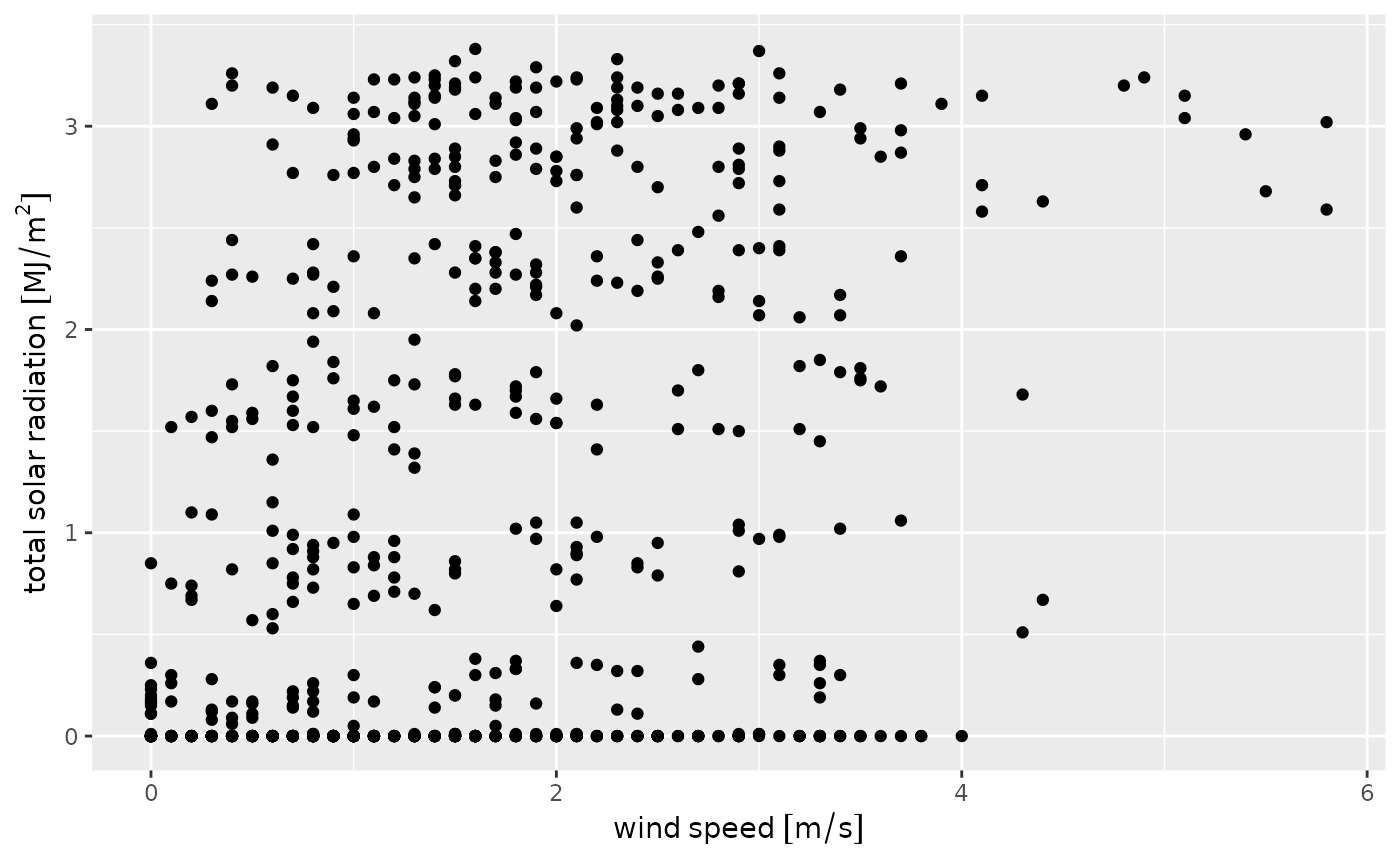
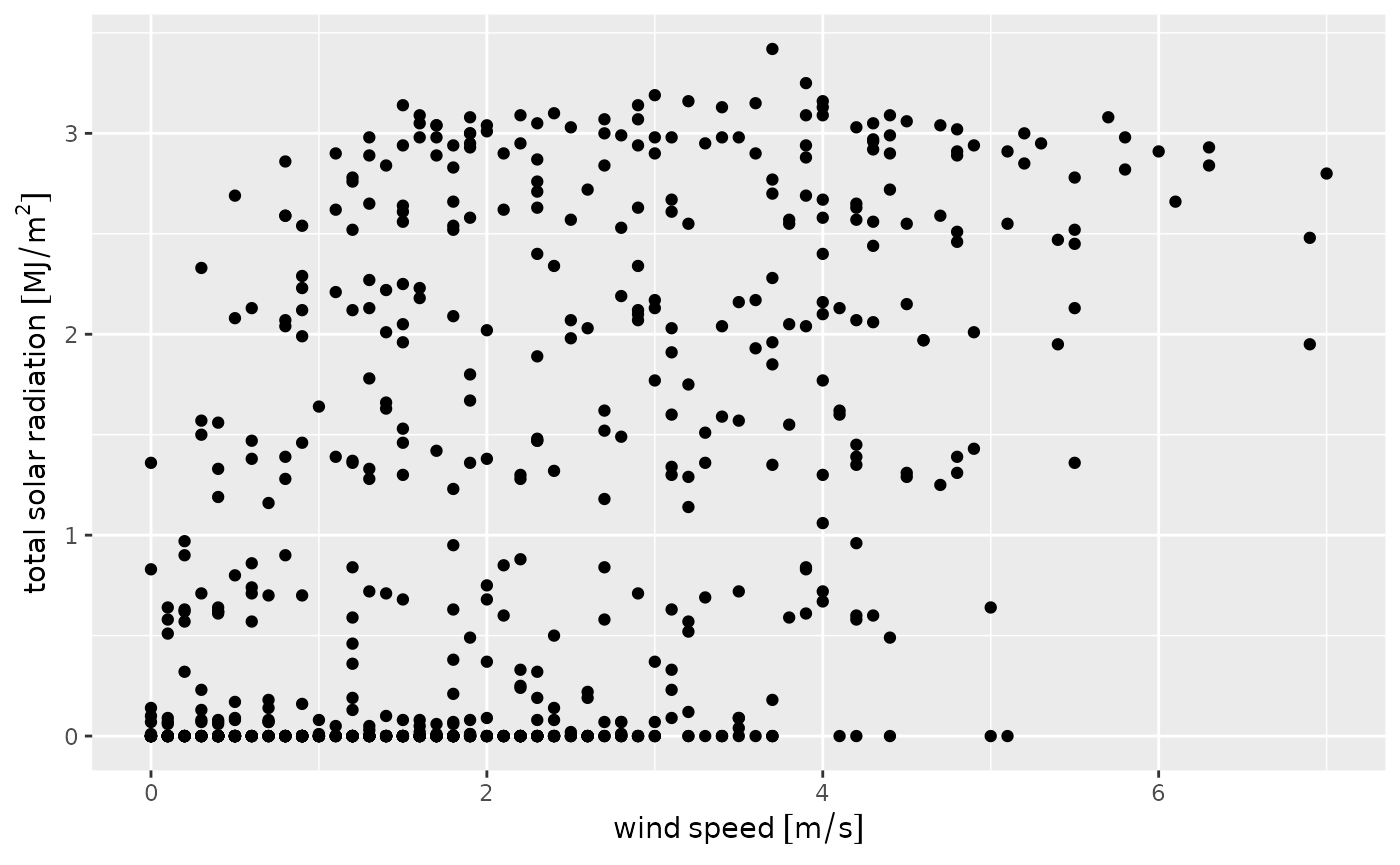
Deploying to gh-pages from @ uace-azmet/azmetr@79f807b2e87c3475a07dbf2db0864c2fc4183dfd 🚀

diff --git a/articles/basic_use.html b/articles/basic_use.html
@@ -111,12 +111,12 @@ any arguments. <code><a href="../reference/az_daily.html">az_daily()</a></code> 
 <span><span class="co">#&gt; <span style="color: #949494;"># A tibble: 6 × 75</span></span></span>
 <span><span class="co">#&gt;   meta_bat_volt_max meta_bat_volt_mean meta_bat_volt_min meta_needs_review</span></span>
 <span><span class="co">#&gt;               <span style="color: #949494; font-style: italic;">&lt;dbl&gt;</span>              <span style="color: #949494; font-style: italic;">&lt;dbl&gt;</span>             <span style="color: #949494; font-style: italic;">&lt;dbl&gt;</span>             <span style="color: #949494; font-style: italic;">&lt;dbl&gt;</span></span></span>
-<span><span class="co">#&gt; <span style="color: #BCBCBC;">1</span>              13.6               12.9              12.6                 0</span></span>
-<span><span class="co">#&gt; <span style="color: #BCBCBC;">2</span>              13.7               12.9              12.6                 0</span></span>
-<span><span class="co">#&gt; <span style="color: #BCBCBC;">3</span>              14.4               13.0              12.7                 0</span></span>
-<span><span class="co">#&gt; <span style="color: #BCBCBC;">4</span>              13.7               12.9              12.6                 0</span></span>
-<span><span class="co">#&gt; <span style="color: #BCBCBC;">5</span>              13.8               13.0              12.7                 0</span></span>
-<span><span class="co">#&gt; <span style="color: #BCBCBC;">6</span>              13.6               13.0              12.7                 0</span></span>
+<span><span class="co">#&gt; <span style="color: #BCBCBC;">1</span>              13.9               13                12.5                 0</span></span>
+<span><span class="co">#&gt; <span style="color: #BCBCBC;">2</span>              14.2               13.0              12.5                 0</span></span>
+<span><span class="co">#&gt; <span style="color: #BCBCBC;">3</span>              14.5               13.0              12.6                 0</span></span>
+<span><span class="co">#&gt; <span style="color: #BCBCBC;">4</span>              14.2               13.0              12.5                 0</span></span>
+<span><span class="co">#&gt; <span style="color: #BCBCBC;">5</span>              14.2               13.1              12.6                 0</span></span>
+<span><span class="co">#&gt; <span style="color: #BCBCBC;">6</span>              14.0               13.1              12.6                 0</span></span>
 <span><span class="co">#&gt; <span style="color: #949494;"># ℹ 71 more variables: meta_station_id &lt;chr&gt;, meta_station_name &lt;chr&gt;,</span></span></span>
 <span><span class="co">#&gt; <span style="color: #949494;">#   meta_version &lt;dbl&gt;, chill_hours_0C &lt;dbl&gt;, chill_hours_20C &lt;dbl&gt;,</span></span></span>
 <span><span class="co">#&gt; <span style="color: #949494;">#   chill_hours_32F &lt;dbl&gt;, chill_hours_45F &lt;dbl&gt;, chill_hours_68F &lt;dbl&gt;,</span></span></span>
@@ -130,9 +130,9 @@ any arguments. <code><a href="../reference/az_daily.html">az_daily()</a></code> 
 <span><span class="co">#&gt;           <span style="color: #949494; font-style: italic;">&lt;dbl&gt;</span>             <span style="color: #949494; font-style: italic;">&lt;dbl&gt;</span> <span style="color: #949494; font-style: italic;">&lt;chr&gt;</span>           <span style="color: #949494; font-style: italic;">&lt;chr&gt;</span>                    <span style="color: #949494; font-style: italic;">&lt;dbl&gt;</span></span></span>
 <span><span class="co">#&gt; <span style="color: #BCBCBC;">1</span>          12.7                 0 az01            Tucson                       1</span></span>
 <span><span class="co">#&gt; <span style="color: #BCBCBC;">2</span>          12.7                 0 az01            Tucson                       1</span></span>
-<span><span class="co">#&gt; <span style="color: #BCBCBC;">3</span>          12.7                 0 az01            Tucson                       1</span></span>
-<span><span class="co">#&gt; <span style="color: #BCBCBC;">4</span>          12.7                 0 az01            Tucson                       1</span></span>
-<span><span class="co">#&gt; <span style="color: #BCBCBC;">5</span>          12.7                 0 az01            Tucson                       1</span></span>
+<span><span class="co">#&gt; <span style="color: #BCBCBC;">3</span>          12.6                 0 az01            Tucson                       1</span></span>
+<span><span class="co">#&gt; <span style="color: #BCBCBC;">4</span>          12.6                 0 az01            Tucson                       1</span></span>
+<span><span class="co">#&gt; <span style="color: #BCBCBC;">5</span>          12.6                 0 az01            Tucson                       1</span></span>
 <span><span class="co">#&gt; <span style="color: #BCBCBC;">6</span>          12.6                 0 az01            Tucson                       1</span></span>
 <span><span class="co">#&gt; <span style="color: #949494;"># ℹ 37 more variables: date_datetime &lt;dttm&gt;, date_doy &lt;dbl&gt;, date_hour &lt;chr&gt;,</span></span></span>
 <span><span class="co">#&gt; <span style="color: #949494;">#   date_year &lt;dbl&gt;, dwpt &lt;dbl&gt;, dwptF &lt;dbl&gt;, eto_azmet &lt;dbl&gt;,</span></span></span>
@@ -151,25 +151,23 @@ retrieve data going back further in time.</p>
 <div class="sourceCode" id="cb3"><pre class="downlit sourceCode r">
 <code class="sourceCode R"><span><span class="va">last_date</span> <span class="op">&lt;-</span> <span class="fu"><a href="https://rdrr.io/r/base/Extremes.html" class="external-link">max</a></span><span class="op">(</span><span class="va">daily</span><span class="op">$</span><span class="va">datetime</span><span class="op">)</span></span>
 <span><span class="va">last_date</span></span>
-<span><span class="co">#&gt; [1] "2023-08-27"</span></span>
+<span><span class="co">#&gt; [1] "2023-09-21"</span></span>
 <span><span class="va">last_week</span> <span class="op">&lt;-</span> <span class="va">last_date</span> <span class="op">-</span> <span class="fu">lubridate</span><span class="fu">::</span><span class="fu"><a href="https://lubridate.tidyverse.org/reference/period.html" class="external-link">weeks</a></span><span class="op">(</span><span class="fl">1</span><span class="op">)</span></span>
 <span><span class="va">wk</span> <span class="op">&lt;-</span> <span class="fu"><a href="../reference/az_daily.html">az_daily</a></span><span class="op">(</span>start_date <span class="op">=</span> <span class="va">last_week</span><span class="op">)</span></span>
-<span><span class="co">#&gt; Warning in az_daily(start_date = last_week): Some requested data were</span></span>
-<span><span class="co">#&gt; unavailable</span></span>
 <span></span>
 <span><span class="fu"><a href="https://rdrr.io/r/base/range.html" class="external-link">range</a></span><span class="op">(</span><span class="va">wk</span><span class="op">$</span><span class="va">datetime</span><span class="op">)</span></span>
-<span><span class="co">#&gt; [1] "2023-08-20" "2023-08-27"</span></span></code></pre></div>
+<span><span class="co">#&gt; [1] "2023-09-14" "2023-09-21"</span></span></code></pre></div>
 <div class="sourceCode" id="cb4"><pre class="downlit sourceCode r">
 <code class="sourceCode R"><span><span class="va">last_datetime</span> <span class="op">&lt;-</span> <span class="fu"><a href="https://rdrr.io/r/base/Extremes.html" class="external-link">max</a></span><span class="op">(</span><span class="va">hourly</span><span class="op">$</span><span class="va">date_datetime</span><span class="op">)</span></span>
 <span><span class="va">last_datetime</span></span>
-<span><span class="co">#&gt; [1] "2023-08-27 23:59:59 MST"</span></span>
+<span><span class="co">#&gt; [1] "2023-09-21 23:59:59 MST"</span></span>
 <span><span class="va">last_48h</span> <span class="op">&lt;-</span> <span class="va">last_datetime</span> <span class="op">-</span> <span class="fu"><a href="https://lubridate.tidyverse.org/reference/period.html" class="external-link">hours</a></span><span class="op">(</span><span class="fl">48</span><span class="op">)</span></span>
 <span><span class="va">hr</span> <span class="op">&lt;-</span> <span class="fu"><a href="../reference/az_hourly.html">az_hourly</a></span><span class="op">(</span>start_date_time <span class="op">=</span> <span class="va">last_48h</span><span class="op">)</span></span>
 <span><span class="co">#&gt; Warning in az_hourly(start_date_time = last_48h): Some requested data were</span></span>
 <span><span class="co">#&gt; unavailable</span></span>
 <span></span>
 <span><span class="fu"><a href="https://rdrr.io/r/base/range.html" class="external-link">range</a></span><span class="op">(</span><span class="va">hr</span><span class="op">$</span><span class="va">date_datetime</span><span class="op">)</span></span>
-<span><span class="co">#&gt; [1] "2023-08-25 23:00:00 MST" "2023-08-28 17:00:00 MST"</span></span></code></pre></div>
+<span><span class="co">#&gt; [1] "2023-09-19 23:00:00 MST" "2023-09-22 12:00:00 MST"</span></span></code></pre></div>
 <p>To specify an end date, use <code>end_date</code> or
 <code>end_date_time</code>. You must also supply a start date if you
 supply an end date.</p>
@@ -200,19 +198,19 @@ rounded down to the nearest hour.</p>
 and location.</p>
 <div class="sourceCode" id="cb7"><pre class="downlit sourceCode r">
 <code class="sourceCode R"><span><span class="va">station_info</span></span>
-<span><span class="co">#&gt; <span style="color: #949494;"># A tibble: 30 × 4</span></span></span>
-<span><span class="co">#&gt;    meta_station_name meta_station_id latitude longitude</span></span>
-<span><span class="co">#&gt;    <span style="color: #949494; font-style: italic;">&lt;chr&gt;</span>             <span style="color: #949494; font-style: italic;">&lt;chr&gt;</span>              <span style="color: #949494; font-style: italic;">&lt;dbl&gt;</span>     <span style="color: #949494; font-style: italic;">&lt;dbl&gt;</span></span></span>
-<span><span class="co">#&gt; <span style="color: #BCBCBC;"> 1</span> Tucson            az01                32.3     -<span style="color: #BB0000;">111.</span></span></span>
-<span><span class="co">#&gt; <span style="color: #BCBCBC;"> 2</span> Yuma Valley       az02                32.7     -<span style="color: #BB0000;">115.</span></span></span>
-<span><span class="co">#&gt; <span style="color: #BCBCBC;"> 3</span> Safford           az04                32.8     -<span style="color: #BB0000;">110.</span></span></span>
-<span><span class="co">#&gt; <span style="color: #BCBCBC;"> 4</span> Coolidge          az05                33.0     -<span style="color: #BB0000;">112.</span></span></span>
-<span><span class="co">#&gt; <span style="color: #BCBCBC;"> 5</span> Maricopa          az06                33.1     -<span style="color: #BB0000;">112.</span></span></span>
-<span><span class="co">#&gt; <span style="color: #BCBCBC;"> 6</span> Aguila            az07                34.0     -<span style="color: #BB0000;">113.</span></span></span>
-<span><span class="co">#&gt; <span style="color: #BCBCBC;"> 7</span> Parker            az08                34.0     -<span style="color: #BB0000;">114.</span></span></span>
-<span><span class="co">#&gt; <span style="color: #BCBCBC;"> 8</span> Bonita            az09                32.5     -<span style="color: #BB0000;">110.</span></span></span>
-<span><span class="co">#&gt; <span style="color: #BCBCBC;"> 9</span> Phoenix Greenway  az12                33.6     -<span style="color: #BB0000;">112.</span></span></span>
-<span><span class="co">#&gt; <span style="color: #BCBCBC;">10</span> Yuma N.Gila       az14                32.8     -<span style="color: #BB0000;">115.</span></span></span>
+<span><span class="co">#&gt; <span style="color: #949494;"># A tibble: 30 × 5</span></span></span>
+<span><span class="co">#&gt;    meta_station_name meta_station_id latitude longitude elev_m</span></span>
+<span><span class="co">#&gt;    <span style="color: #949494; font-style: italic;">&lt;chr&gt;</span>             <span style="color: #949494; font-style: italic;">&lt;chr&gt;</span>              <span style="color: #949494; font-style: italic;">&lt;dbl&gt;</span>     <span style="color: #949494; font-style: italic;">&lt;dbl&gt;</span>  <span style="color: #949494; font-style: italic;">&lt;dbl&gt;</span></span></span>
+<span><span class="co">#&gt; <span style="color: #BCBCBC;"> 1</span> Tucson            az01                32.3     -<span style="color: #BB0000;">111.</span>    717</span></span>
+<span><span class="co">#&gt; <span style="color: #BCBCBC;"> 2</span> Yuma Valley       az02                32.7     -<span style="color: #BB0000;">115.</span>     36</span></span>
+<span><span class="co">#&gt; <span style="color: #BCBCBC;"> 3</span> Safford           az04                32.8     -<span style="color: #BB0000;">110.</span>    903</span></span>
+<span><span class="co">#&gt; <span style="color: #BCBCBC;"> 4</span> Coolidge          az05                33.0     -<span style="color: #BB0000;">112.</span>    423</span></span>
+<span><span class="co">#&gt; <span style="color: #BCBCBC;"> 5</span> Maricopa          az06                33.1     -<span style="color: #BB0000;">112.</span>    362</span></span>
+<span><span class="co">#&gt; <span style="color: #BCBCBC;"> 6</span> Aguila            az07                33.9     -<span style="color: #BB0000;">113.</span>    657</span></span>
+<span><span class="co">#&gt; <span style="color: #BCBCBC;"> 7</span> Parker            az08                34.0     -<span style="color: #BB0000;">114.</span>     98</span></span>
+<span><span class="co">#&gt; <span style="color: #BCBCBC;"> 8</span> Bonita            az09                32.5     -<span style="color: #BB0000;">110.</span>   <span style="text-decoration: underline;">1</span>349</span></span>
+<span><span class="co">#&gt; <span style="color: #BCBCBC;"> 9</span> Phoenix Greenway  az12                33.6     -<span style="color: #BB0000;">112.</span>    403</span></span>
+<span><span class="co">#&gt; <span style="color: #BCBCBC;">10</span> Yuma N.Gila       az14                32.8     -<span style="color: #BB0000;">115.</span>     43</span></span>
 <span><span class="co">#&gt; <span style="color: #949494;"># ℹ 20 more rows</span></span></span></code></pre></div>
 <p>If you only need data for a subset of stations, you can supply
 <code>station_id</code>. However, note that this will query the API once
@@ -224,7 +222,7 @@ queries the web API once and results in an identical dataset.</p>
 <span>  <span class="va">sub_wk</span> <span class="op">&lt;-</span> <span class="fu"><a href="../reference/az_daily.html">az_daily</a></span><span class="op">(</span>station_id <span class="op">=</span> <span class="fu"><a href="https://rdrr.io/r/base/c.html" class="external-link">c</a></span><span class="op">(</span><span class="fl">1</span>, <span class="fl">2</span>, <span class="fl">8</span><span class="op">)</span>, start_date <span class="op">=</span> <span class="st">"2022-01-01"</span>, end_date <span class="op">=</span> <span class="st">"2022-01-15"</span><span class="op">)</span></span>
 <span><span class="op">)</span></span>
 <span><span class="co">#&gt;    user  system elapsed </span></span>
-<span><span class="co">#&gt;   0.148   0.000   0.867</span></span>
+<span><span class="co">#&gt;   0.128   0.000   0.947</span></span>
 <span><span class="fu"><a href="https://rdrr.io/r/base/system.time.html" class="external-link">system.time</a></span><span class="op">(</span></span>
 <span>  <span class="va">sub_wk2</span> <span class="op">&lt;-</span> <span class="fu"><a href="https://rdrr.io/r/base/subset.html" class="external-link">subset</a></span><span class="op">(</span></span>
 <span>    <span class="fu"><a href="../reference/az_daily.html">az_daily</a></span><span class="op">(</span>start_date <span class="op">=</span> <span class="st">"2022-01-01"</span>, end_date <span class="op">=</span> <span class="st">"2022-01-15"</span><span class="op">)</span>,</span>
@@ -232,7 +230,7 @@ queries the web API once and results in an identical dataset.</p>
 <span>  <span class="op">)</span></span>
 <span><span class="op">)</span></span>
 <span><span class="co">#&gt;    user  system elapsed </span></span>
-<span><span class="co">#&gt;   0.396   0.000   0.665</span></span>
+<span><span class="co">#&gt;   0.345   0.000   0.823</span></span>
 <span><span class="fu"><a href="https://rdrr.io/r/base/all.html" class="external-link">all</a></span><span class="op">(</span><span class="va">sub_wk2</span> <span class="op">==</span> <span class="va">sub_wk</span><span class="op">)</span></span>
 <span><span class="co">#&gt; [1] NA</span></span></code></pre></div>
 </div>

diff --git a/reference/station_info.html b/reference/station_info.html
@@ -1,7 +1,7 @@
 <!DOCTYPE html>
-<!-- Generated by pkgdown: do not edit by hand --><html lang="en"><head><meta http-equiv="Content-Type" content="text/html; charset=UTF-8"><meta charset="utf-8"><meta http-equiv="X-UA-Compatible" content="IE=edge"><meta name="viewport" content="width=device-width, initial-scale=1, shrink-to-fit=no"><meta name="description" content="Station names, station IDs, and location (lat, lon) of active AZMet weather
-stations"><title>AZMet station names and locations — station_info • azmetr</title><!-- favicons --><link rel="icon" type="image/png" sizes="16x16" href="../favicon-16x16.png"><link rel="icon" type="image/png" sizes="32x32" href="../favicon-32x32.png"><link rel="apple-touch-icon" type="image/png" sizes="180x180" href="../apple-touch-icon.png"><link rel="apple-touch-icon" type="image/png" sizes="120x120" href="../apple-touch-icon-120x120.png"><link rel="apple-touch-icon" type="image/png" sizes="76x76" href="../apple-touch-icon-76x76.png"><link rel="apple-touch-icon" type="image/png" sizes="60x60" href="../apple-touch-icon-60x60.png"><script src="../deps/jquery-3.6.0/jquery-3.6.0.min.js"></script><meta name="viewport" content="width=device-width, initial-scale=1, shrink-to-fit=no"><link href="../deps/bootstrap-5.2.2/bootstrap.min.css" rel="stylesheet"><script src="../deps/bootstrap-5.2.2/bootstrap.bundle.min.js"></script><!-- Font Awesome icons --><link rel="stylesheet" href="https://cdnjs.cloudflare.com/ajax/libs/font-awesome/5.12.1/css/all.min.css" integrity="sha256-mmgLkCYLUQbXn0B1SRqzHar6dCnv9oZFPEC1g1cwlkk=" crossorigin="anonymous"><link rel="stylesheet" href="https://cdnjs.cloudflare.com/ajax/libs/font-awesome/5.12.1/css/v4-shims.min.css" integrity="sha256-wZjR52fzng1pJHwx4aV2AO3yyTOXrcDW7jBpJtTwVxw=" crossorigin="anonymous"><!-- bootstrap-toc --><script src="https://cdn.jsdelivr.net/gh/afeld/bootstrap-toc@v1.0.1/dist/bootstrap-toc.min.js" integrity="sha256-4veVQbu7//Lk5TSmc7YV48MxtMy98e26cf5MrgZYnwo=" crossorigin="anonymous"></script><!-- headroom.js --><script src="https://cdnjs.cloudflare.com/ajax/libs/headroom/0.11.0/headroom.min.js" integrity="sha256-AsUX4SJE1+yuDu5+mAVzJbuYNPHj/WroHuZ8Ir/CkE0=" crossorigin="anonymous"></script><script src="https://cdnjs.cloudflare.com/ajax/libs/headroom/0.11.0/jQuery.headroom.min.js" integrity="sha256-ZX/yNShbjqsohH1k95liqY9Gd8uOiE1S4vZc+9KQ1K4=" crossorigin="anonymous"></script><!-- clipboard.js --><script src="https://cdnjs.cloudflare.com/ajax/libs/clipboard.js/2.0.6/clipboard.min.js" integrity="sha256-inc5kl9MA1hkeYUt+EC3BhlIgyp/2jDIyBLS6k3UxPI=" crossorigin="anonymous"></script><!-- search --><script src="https://cdnjs.cloudflare.com/ajax/libs/fuse.js/6.4.6/fuse.js" integrity="sha512-zv6Ywkjyktsohkbp9bb45V6tEMoWhzFzXis+LrMehmJZZSys19Yxf1dopHx7WzIKxr5tK2dVcYmaCk2uqdjF4A==" crossorigin="anonymous"></script><script src="https://cdnjs.cloudflare.com/ajax/libs/autocomplete.js/0.38.0/autocomplete.jquery.min.js" integrity="sha512-GU9ayf+66Xx2TmpxqJpliWbT5PiGYxpaG8rfnBEk1LL8l1KGkRShhngwdXK1UgqhAzWpZHSiYPc09/NwDQIGyg==" crossorigin="anonymous"></script><script src="https://cdnjs.cloudflare.com/ajax/libs/mark.js/8.11.1/mark.min.js" integrity="sha512-5CYOlHXGh6QpOFA/TeTylKLWfB3ftPsde7AnmhuitiTX4K5SqCLBeKro6sPS8ilsz1Q4NRx3v8Ko2IBiszzdww==" crossorigin="anonymous"></script><!-- pkgdown --><script src="../pkgdown.js"></script><meta property="og:title" content="AZMet station names and locations — station_info"><meta property="og:description" content="Station names, station IDs, and location (lat, lon) of active AZMet weather
-stations"><meta property="og:image" content="https://uace-azmet.github.io/azmetr/logo.png"><!-- mathjax --><script src="https://cdnjs.cloudflare.com/ajax/libs/mathjax/2.7.5/MathJax.js" integrity="sha256-nvJJv9wWKEm88qvoQl9ekL2J+k/RWIsaSScxxlsrv8k=" crossorigin="anonymous"></script><script src="https://cdnjs.cloudflare.com/ajax/libs/mathjax/2.7.5/config/TeX-AMS-MML_HTMLorMML.js" integrity="sha256-84DKXVJXs0/F8OTMzX4UR909+jtl4G7SPypPavF+GfA=" crossorigin="anonymous"></script><!--[if lt IE 9]>
+<!-- Generated by pkgdown: do not edit by hand --><html lang="en"><head><meta http-equiv="Content-Type" content="text/html; charset=UTF-8"><meta charset="utf-8"><meta http-equiv="X-UA-Compatible" content="IE=edge"><meta name="viewport" content="width=device-width, initial-scale=1, shrink-to-fit=no"><meta name="description" content="Station names, station IDs, and location (lat, lon, elevation) of active
+AZMet weather stations"><title>AZMet station names and locations — station_info • azmetr</title><!-- favicons --><link rel="icon" type="image/png" sizes="16x16" href="../favicon-16x16.png"><link rel="icon" type="image/png" sizes="32x32" href="../favicon-32x32.png"><link rel="apple-touch-icon" type="image/png" sizes="180x180" href="../apple-touch-icon.png"><link rel="apple-touch-icon" type="image/png" sizes="120x120" href="../apple-touch-icon-120x120.png"><link rel="apple-touch-icon" type="image/png" sizes="76x76" href="../apple-touch-icon-76x76.png"><link rel="apple-touch-icon" type="image/png" sizes="60x60" href="../apple-touch-icon-60x60.png"><script src="../deps/jquery-3.6.0/jquery-3.6.0.min.js"></script><meta name="viewport" content="width=device-width, initial-scale=1, shrink-to-fit=no"><link href="../deps/bootstrap-5.2.2/bootstrap.min.css" rel="stylesheet"><script src="../deps/bootstrap-5.2.2/bootstrap.bundle.min.js"></script><!-- Font Awesome icons --><link rel="stylesheet" href="https://cdnjs.cloudflare.com/ajax/libs/font-awesome/5.12.1/css/all.min.css" integrity="sha256-mmgLkCYLUQbXn0B1SRqzHar6dCnv9oZFPEC1g1cwlkk=" crossorigin="anonymous"><link rel="stylesheet" href="https://cdnjs.cloudflare.com/ajax/libs/font-awesome/5.12.1/css/v4-shims.min.css" integrity="sha256-wZjR52fzng1pJHwx4aV2AO3yyTOXrcDW7jBpJtTwVxw=" crossorigin="anonymous"><!-- bootstrap-toc --><script src="https://cdn.jsdelivr.net/gh/afeld/bootstrap-toc@v1.0.1/dist/bootstrap-toc.min.js" integrity="sha256-4veVQbu7//Lk5TSmc7YV48MxtMy98e26cf5MrgZYnwo=" crossorigin="anonymous"></script><!-- headroom.js --><script src="https://cdnjs.cloudflare.com/ajax/libs/headroom/0.11.0/headroom.min.js" integrity="sha256-AsUX4SJE1+yuDu5+mAVzJbuYNPHj/WroHuZ8Ir/CkE0=" crossorigin="anonymous"></script><script src="https://cdnjs.cloudflare.com/ajax/libs/headroom/0.11.0/jQuery.headroom.min.js" integrity="sha256-ZX/yNShbjqsohH1k95liqY9Gd8uOiE1S4vZc+9KQ1K4=" crossorigin="anonymous"></script><!-- clipboard.js --><script src="https://cdnjs.cloudflare.com/ajax/libs/clipboard.js/2.0.6/clipboard.min.js" integrity="sha256-inc5kl9MA1hkeYUt+EC3BhlIgyp/2jDIyBLS6k3UxPI=" crossorigin="anonymous"></script><!-- search --><script src="https://cdnjs.cloudflare.com/ajax/libs/fuse.js/6.4.6/fuse.js" integrity="sha512-zv6Ywkjyktsohkbp9bb45V6tEMoWhzFzXis+LrMehmJZZSys19Yxf1dopHx7WzIKxr5tK2dVcYmaCk2uqdjF4A==" crossorigin="anonymous"></script><script src="https://cdnjs.cloudflare.com/ajax/libs/autocomplete.js/0.38.0/autocomplete.jquery.min.js" integrity="sha512-GU9ayf+66Xx2TmpxqJpliWbT5PiGYxpaG8rfnBEk1LL8l1KGkRShhngwdXK1UgqhAzWpZHSiYPc09/NwDQIGyg==" crossorigin="anonymous"></script><script src="https://cdnjs.cloudflare.com/ajax/libs/mark.js/8.11.1/mark.min.js" integrity="sha512-5CYOlHXGh6QpOFA/TeTylKLWfB3ftPsde7AnmhuitiTX4K5SqCLBeKro6sPS8ilsz1Q4NRx3v8Ko2IBiszzdww==" crossorigin="anonymous"></script><!-- pkgdown --><script src="../pkgdown.js"></script><meta property="og:title" content="AZMet station names and locations — station_info"><meta property="og:description" content="Station names, station IDs, and location (lat, lon, elevation) of active
+AZMet weather stations"><meta property="og:image" content="https://uace-azmet.github.io/azmetr/logo.png"><!-- mathjax --><script src="https://cdnjs.cloudflare.com/ajax/libs/mathjax/2.7.5/MathJax.js" integrity="sha256-nvJJv9wWKEm88qvoQl9ekL2J+k/RWIsaSScxxlsrv8k=" crossorigin="anonymous"></script><script src="https://cdnjs.cloudflare.com/ajax/libs/mathjax/2.7.5/config/TeX-AMS-MML_HTMLorMML.js" integrity="sha256-84DKXVJXs0/F8OTMzX4UR909+jtl4G7SPypPavF+GfA=" crossorigin="anonymous"></script><!--[if lt IE 9]>
 <script src="https://oss.maxcdn.com/html5shiv/3.7.3/html5shiv.min.js"></script>
 <script src="https://oss.maxcdn.com/respond/1.4.2/respond.min.js"></script>
 <![endif]--></head><body>
@@ -55,8 +55,8 @@ stations"><meta property="og:image" content="https://uace-azmet.github.io/azmetr
     </div>
 
     <div class="ref-description section level2">
-    <p>Station names, station IDs, and location (lat, lon) of active AZMet weather
-stations</p>
+    <p>Station names, station IDs, and location (lat, lon, elevation) of active
+AZMet weather stations</p>
     </div>
 
     <div class="section level2">
@@ -66,7 +66,7 @@ stations</p>
 
     <div class="section level2">
     <h2 id="format">Format<a class="anchor" aria-label="anchor" href="#format"></a></h2>
-    <p>A tibble with 30 rows and 4 columns:</p><dl><dt><code>meta_station_name</code></dt>
+    <p>A tibble with 30 rows and 5 columns:</p><dl><dt><code>meta_station_name</code></dt>
 <dd><p>Station name</p></dd>
 
 <dt><code>meta_station_id</code></dt>
@@ -74,6 +74,9 @@ stations</p>
 
 <dt><code>latitude</code>, <code>logitude</code></dt>
 <dd><p>Station location</p></dd>
+
+<dt><code>elev_m</code></dt>
+<dd><p>Station elevation in meters</p></dd>
 
 
 </dl></div>

diff --git a/articles/metadata.html b/articles/metadata.html
@@ -119,12 +119,12 @@
 <span><span class="co">#&gt; <span style="color: #949494;"># A tibble: 6 × 33</span></span></span>
 <span><span class="co">#&gt;   dwpt  dwptF eto_azmet eto_azmet_in heatstress_cottonC heatstress_cottonF</span></span>
 <span><span class="co">#&gt;   <span style="color: #949494;">[°C]</span> <span style="color: #949494;">[degF]</span>      <span style="color: #949494;">[mm]</span>         <span style="color: #949494;">[in]</span>               <span style="color: #949494;">[°C]</span>             <span style="color: #949494;">[degF]</span></span></span>
-<span><span class="co">#&gt; <span style="color: #BCBCBC;">1</span> 18.5   65.3       0              0               26.5               79.7</span></span>
-<span><span class="co">#&gt; <span style="color: #BCBCBC;">2</span> 18.3   64.9       0.1            0               26.7               80  </span></span>
-<span><span class="co">#&gt; <span style="color: #BCBCBC;">3</span> 18.1   64.6       0              0               26.8               80.3</span></span>
-<span><span class="co">#&gt; <span style="color: #BCBCBC;">4</span> 18.1   64.6       0              0               26.4               79.6</span></span>
-<span><span class="co">#&gt; <span style="color: #BCBCBC;">5</span> 17.3   63.2       0              0               26.3               79.3</span></span>
-<span><span class="co">#&gt; <span style="color: #BCBCBC;">6</span> 16.7   62         0              0               25.6               78.1</span></span>
+<span><span class="co">#&gt; <span style="color: #BCBCBC;">1</span>  9.5   49.1         0            0               19.9               67.8</span></span>
+<span><span class="co">#&gt; <span style="color: #BCBCBC;">2</span>  9.4   48.9         0            0               19.7               67.4</span></span>
+<span><span class="co">#&gt; <span style="color: #BCBCBC;">3</span>  9.8   49.6         0            0               17.4               63.4</span></span>
+<span><span class="co">#&gt; <span style="color: #BCBCBC;">4</span>  9.9   49.8         0            0               16.6               61.8</span></span>
+<span><span class="co">#&gt; <span style="color: #BCBCBC;">5</span>  9.9   49.8         0            0               15.2               59.4</span></span>
+<span><span class="co">#&gt; <span style="color: #BCBCBC;">6</span>  9.9   49.8         0            0               14.6               58.3</span></span>
 <span><span class="co">#&gt; <span style="color: #949494;"># ℹ 27 more variables: precip_total [mm], precip_total_in [in],</span></span></span>
 <span><span class="co">#&gt; <span style="color: #949494;">#   relative_humidity [%], sol_rad_total [MJ/m^2], sol_rad_total_ly [langleys],</span></span></span>
 <span><span class="co">#&gt; <span style="color: #949494;">#   temp_airC [°C], temp_airF [degF], temp_soil_10cmC [°C],</span></span></span>
@@ -154,16 +154,16 @@ package.</p>
 <span><span class="co">#&gt; <span style="color: #949494;"># A tibble: 720 × 3</span></span></span>
 <span><span class="co">#&gt;    wind_spd_kph sol_rad_total temp_airK</span></span>
 <span><span class="co">#&gt;          <span style="color: #949494;">[km/h]</span>     <span style="color: #949494;">[h*W/m^2]</span>       <span style="color: #949494;">[K]</span></span></span>
-<span><span class="co">#&gt; <span style="color: #BCBCBC;"> 1</span>         3.96           0        301.</span></span>
-<span><span class="co">#&gt; <span style="color: #BCBCBC;"> 2</span>         5.4            0        302.</span></span>
-<span><span class="co">#&gt; <span style="color: #BCBCBC;"> 3</span>         0.36           0        302.</span></span>
-<span><span class="co">#&gt; <span style="color: #BCBCBC;"> 4</span>         2.52           0        301.</span></span>
-<span><span class="co">#&gt; <span style="color: #BCBCBC;"> 5</span>         3.6            0        301.</span></span>
-<span><span class="co">#&gt; <span style="color: #BCBCBC;"> 6</span>         2.16           0        301.</span></span>
-<span><span class="co">#&gt; <span style="color: #BCBCBC;"> 7</span>         0.36          72.2      301.</span></span>
-<span><span class="co">#&gt; <span style="color: #BCBCBC;"> 8</span>         3.6          272.       303.</span></span>
-<span><span class="co">#&gt; <span style="color: #BCBCBC;"> 9</span>         2.52         486.       305.</span></span>
-<span><span class="co">#&gt; <span style="color: #BCBCBC;">10</span>         2.88         672.       307.</span></span>
+<span><span class="co">#&gt; <span style="color: #BCBCBC;"> 1</span>         4.32           0        297.</span></span>
+<span><span class="co">#&gt; <span style="color: #BCBCBC;"> 2</span>         3.24           0        296.</span></span>
+<span><span class="co">#&gt; <span style="color: #BCBCBC;"> 3</span>         1.44           0        294.</span></span>
+<span><span class="co">#&gt; <span style="color: #BCBCBC;"> 4</span>         2.88           0        293.</span></span>
+<span><span class="co">#&gt; <span style="color: #BCBCBC;"> 5</span>         1.08           0        292.</span></span>
+<span><span class="co">#&gt; <span style="color: #BCBCBC;"> 6</span>         1.8            0        291.</span></span>
+<span><span class="co">#&gt; <span style="color: #BCBCBC;"> 7</span>         1.8           47.2      292.</span></span>
+<span><span class="co">#&gt; <span style="color: #BCBCBC;"> 8</span>         4.32         233.       296.</span></span>
+<span><span class="co">#&gt; <span style="color: #BCBCBC;"> 9</span>         5.04         453.       300.</span></span>
+<span><span class="co">#&gt; <span style="color: #BCBCBC;">10</span>         8.64         650        303.</span></span>
 <span><span class="co">#&gt; <span style="color: #949494;"># ℹ 710 more rows</span></span></span></code></pre></div>
 <p>Second, it won’t allow you to do math where the units aren’t
 compatible.</p>
@@ -182,7 +182,7 @@ constants.</p>
 <span></span>
 <span><span class="co">## Must use:</span></span>
 <span><span class="va">hourly</span><span class="op">$</span><span class="va">wind_spd_mps</span><span class="op">[</span><span class="fl">1</span><span class="op">]</span> <span class="op">+</span> <span class="fu"><a href="https://r-quantities.github.io/units/reference/units.html" class="external-link">set_units</a></span><span class="op">(</span><span class="fl">10</span>, <span class="st">"m/s"</span><span class="op">)</span></span>
-<span><span class="co">#&gt; 11.1 [m/s]</span></span></code></pre></div>
+<span><span class="co">#&gt; 11.2 [m/s]</span></span></code></pre></div>
 </div>
 <div class="section level2">
 <h2 id="plotting-with-units">Plotting with units<a class="anchor" aria-label="anchor" href="#plotting-with-units"></a>

diff --git a/authors.html b/authors.html
@@ -81,13 +81,13 @@
 }</pre>
       <p>Arizona Meteorological Network (2023).
 “Arizona Meteorological Network (AZMet) Data.”
-Accessed 2023-08-29, <a href="https://azmet.arizona.edu" class="external-link">https://azmet.arizona.edu</a>. 
+Accessed 2023-09-22, <a href="https://azmet.arizona.edu" class="external-link">https://azmet.arizona.edu</a>. 
 </p>
       <pre>@Misc{,
   title = {Arizona Meteorological Network (AZMet) Data},
   author = {{Arizona Meteorological Network}},
   year = {2023},
-  note = {Accessed 2023-08-29},
+  note = {Accessed 2023-09-22},
   url = {https://azmet.arizona.edu},
 }</pre>
     </div>

diff --git a/news/index.html b/news/index.html
@@ -60,6 +60,7 @@
 <li>Variable type for hourly and daily <code>wind_2min_timestamp</code> now is date-time instead of character with correct time zone, <code>tzone = "America/Phoenix"</code>
 </li>
 <li>Values for hourly <code>date_datetime</code> variable now have <code>tzone = "America/Phoenix"</code> assigned</li>
+<li>The <code>station_info</code> dataset now includes elevation</li>
 </ul></div>
     <div class="section level2">
 <h2 class="pkg-version" data-toc-text="0.2.0" id="azmetr-020">azmetr 0.2.0<a class="anchor" aria-label="anchor" href="#azmetr-020"></a></h2>
